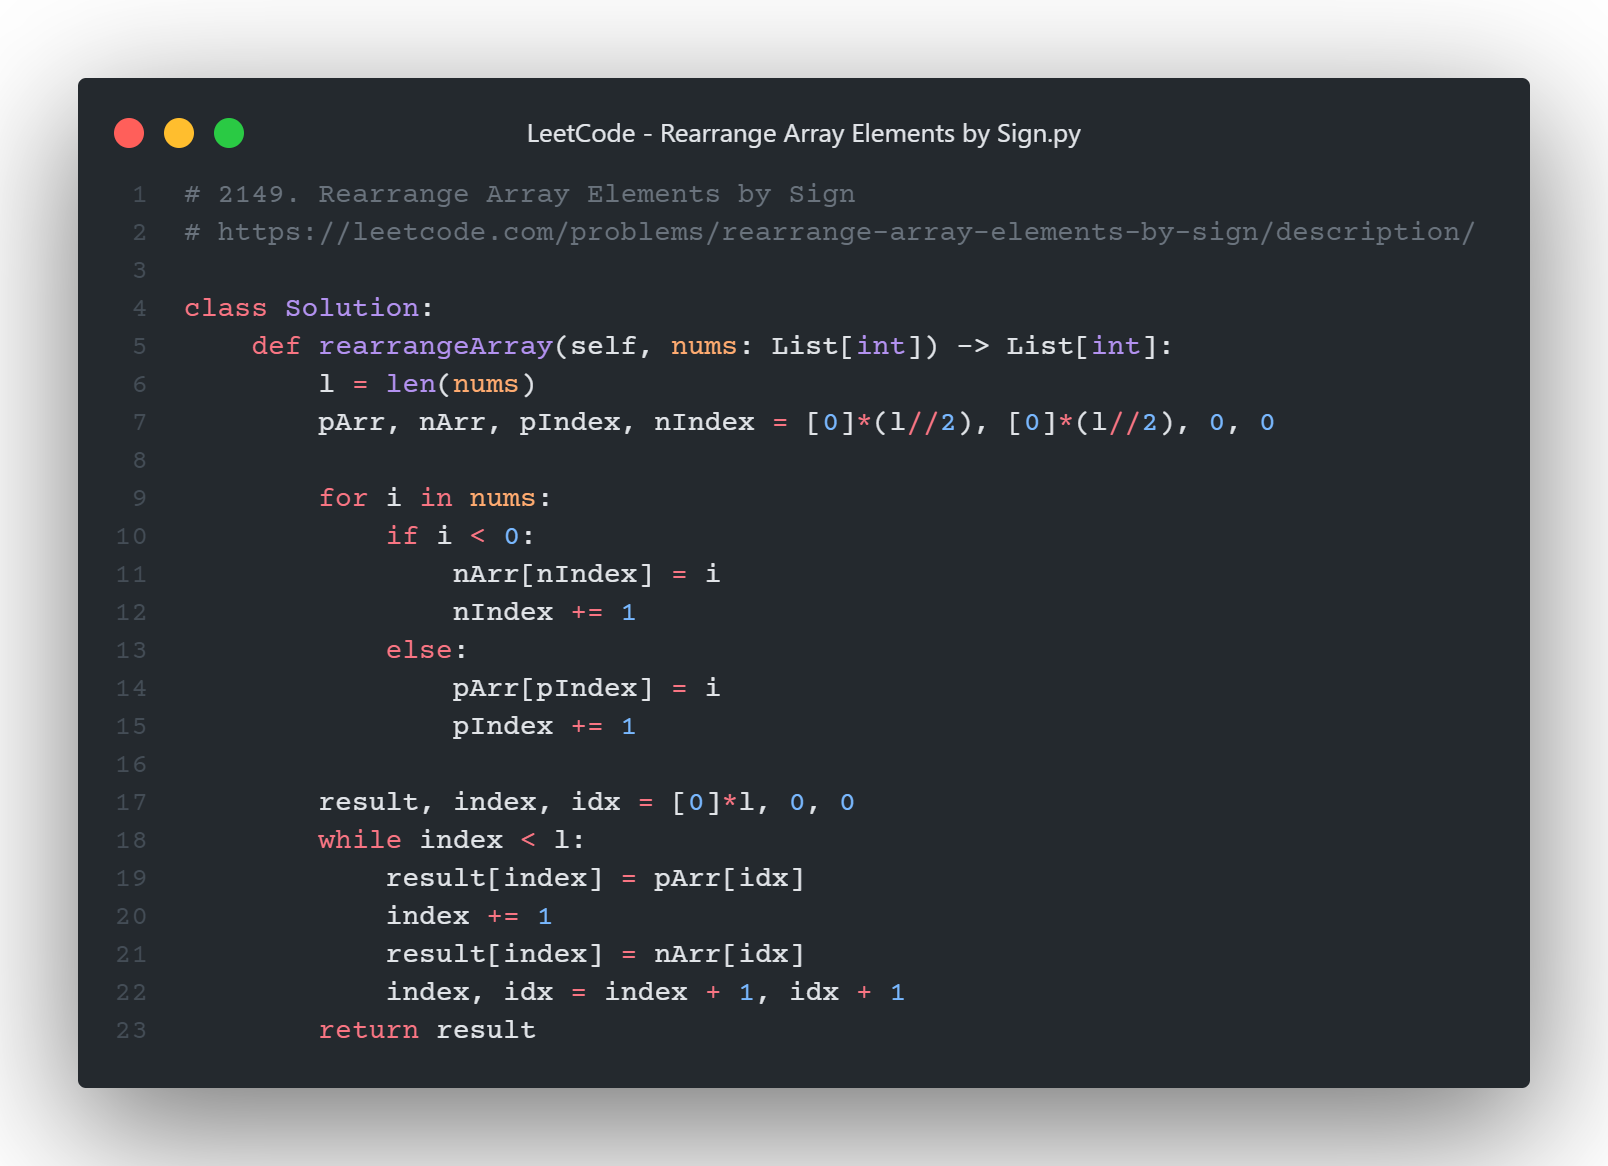
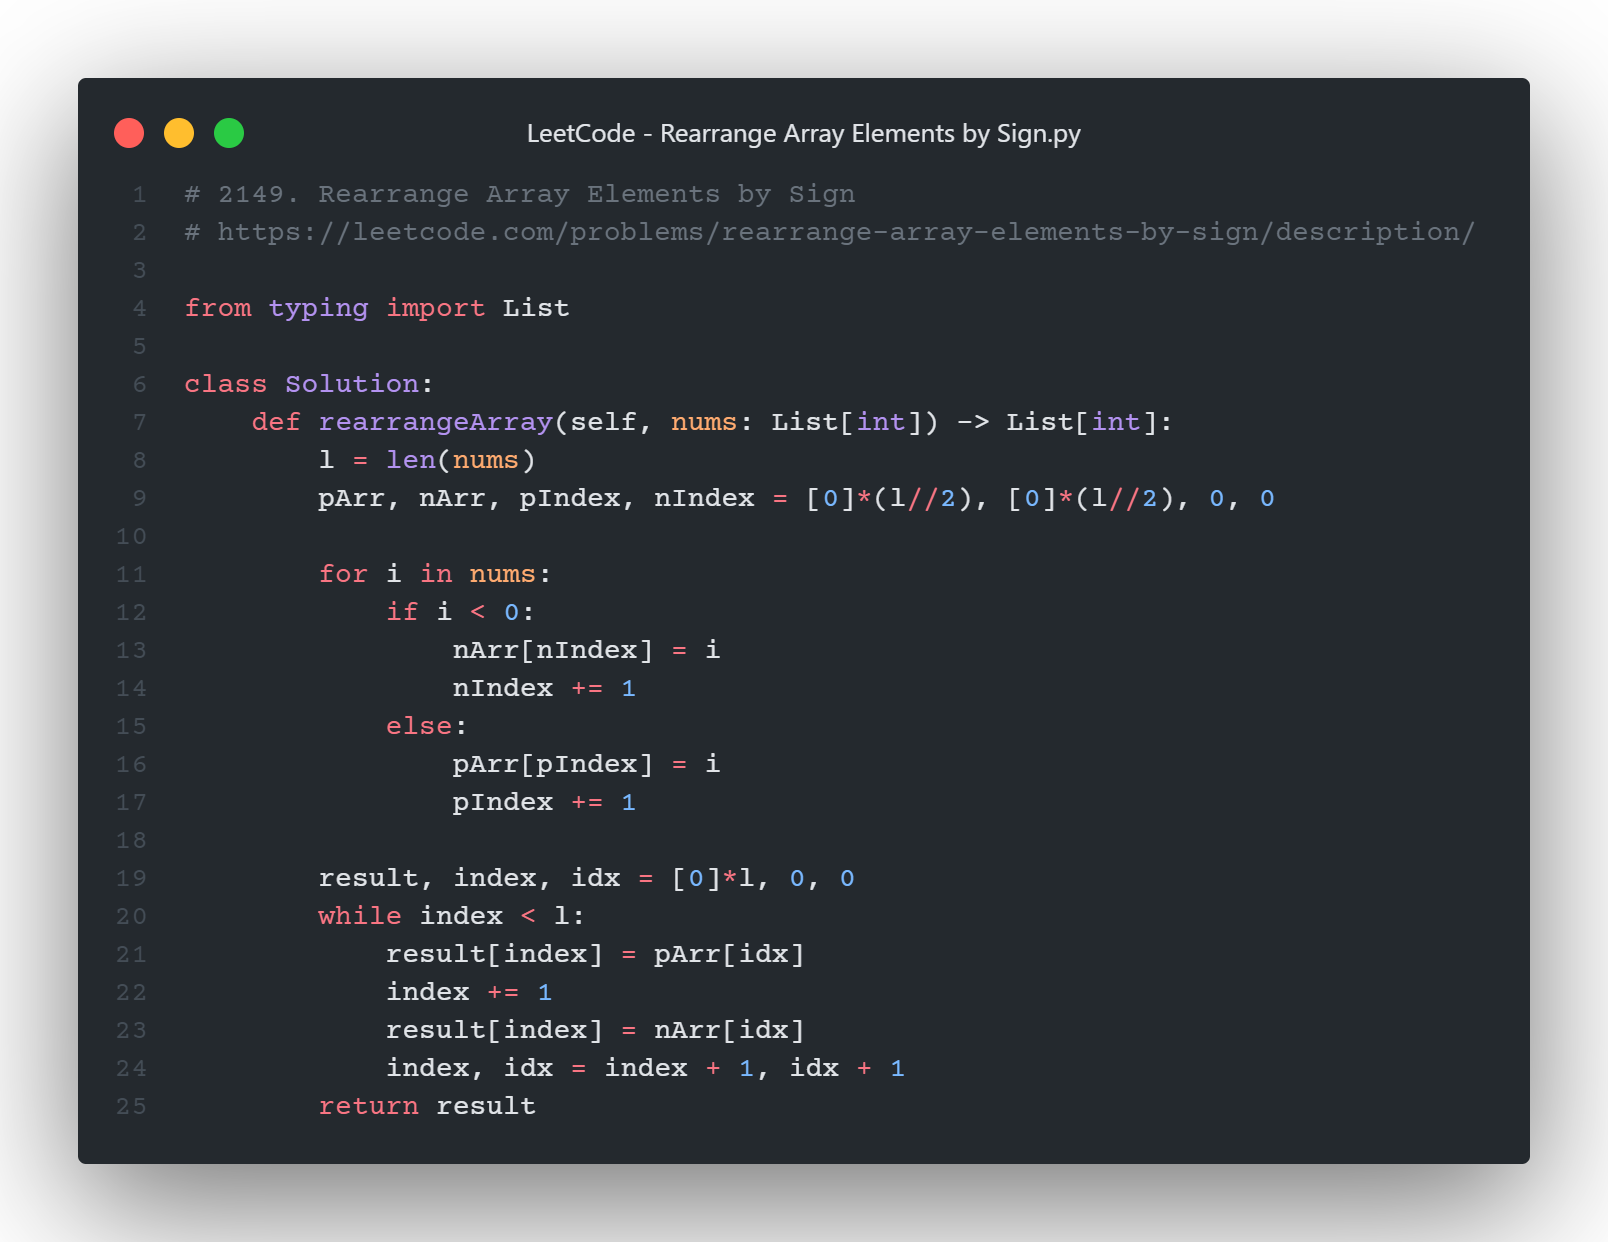
Update

diff --git a/Medium/Rearrange Array Elements by Sign.py b/Medium/Rearrange Array Elements by Sign.py
@@ -1,6 +1,8 @@
 # 2149. Rearrange Array Elements by Sign
 # https://leetcode.com/problems/rearrange-array-elements-by-sign/description/
 
+from typing import List
+
 class Solution:
     def rearrangeArray(self, nums: List[int]) -> List[int]:
         l = len(nums)
